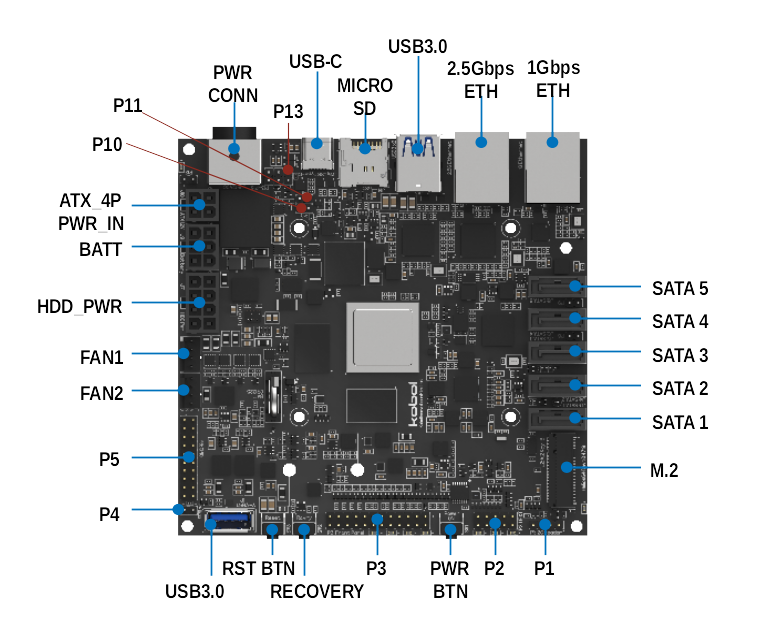
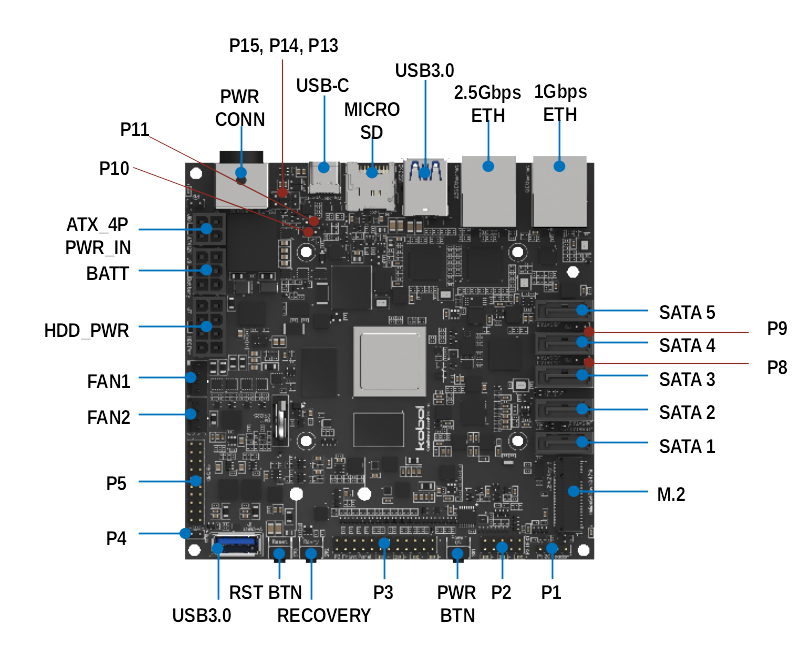
update hardware and led pages

Changed region(s): [[0.0303, 0.0616, 0.9394, 0.9854], [0.9697, 0.5543, 1.0, 0.5851], [0.9697, 0.4927, 1.0, 0.5235]]

diff --git a/docs/helios64/led.md b/docs/helios64/led.md
@@ -2,147 +2,18 @@
 
 ## On-Board LEDs
 
+The onboard LEDs location are shown in above figure 
 
-### Pinout Table
+## LED indicators
 
-![J18 Pinout](/helios4/img/led/gpio_pinout_j18.png)
+LED Name|Color|Description
+---|---|---
+LED1|green|SYS power
+LED2|green|Peripheral power
+LED3|green|HDD power
+LED4|blue|System ON
+LED5|bule|HDD activity
+LED6|green|System Status
+LED7|red|System Error
+LED8|orange|Battery Charge
 
-| Pin | LED number | Remarks |
-|-----|------------|---------|
-|  1  |  -   |  3.3V supply  |
-|  2  |  -   |  Not connected |
-|  3  | LED1 | Active-low |
-|  4  | LED2 | Active-low |
-|  5  | LED3 | Active-low |
-|  6  | LED4 | Active-low |
-|  7  | LED5 | Active-low |
-|  8  | LED6 | Active-low |
-|  9  | LED7 | Active-low |
-| 10  |  -   | GND |
-
-!!! info
-    LED1 - LED7 is preconfigured for certain indicator under Linux, see [LED under Linux](#led-under-linux) section.
-
-### Wiring Diagram
-
-Since the signals to control the LEDs are active low, connect the pin to LED's cathode.
-Below a wiring diagram example.
-
-![Wiring Example](/helios4/img/led/led_expansion_wiring_diagram.png)
-
-
-## LED under Linux
-
-| LED  | Name                 | Default Trigger | Remarks |
-|------|----------------------|-----------------|---------|
-| LED1 | helios4:green:status | heartbeat | Blinking periodically |
-| LED2 | helios4:red:fault    | none      | See [Configuring Fault LED](#configuring-fault-led) |
-| LED3 | helios4:green:ata1   | ata1      | Blinking on SATA1 activity |
-| LED4 | helios4:green:ata2   | ata2      | Blinking on SATA2 activity |
-| LED5 | helios4:green:ata3   | ata3      | Blinking on SATA3 activity |
-| LED6 | helios4:green:ata4   | ata4      | Blinking on SATA4 activity |
-| LED7 | helios4:green:usb    | usb-host  | Blinking on USB activity, any port |
-
-!!! note
-    **ata** trigger requires additional patch to mainline kernel. The patch can be found [here](/helios4/files/led/libata_leds_trigger_mvebu.patch). **Armbian** builds are already patched, so no action is required.
-
-The LEDs can be accessed under LEDs class in *sysfs*.
-
-```
-root@helios4:~/# ls -l /sys/class/leds/
-
-lrwxrwxrwx 1 root root 0 Dec  4 06:57 helios4:green:ata1 -> ../../devices/platform/io-leds/leds/helios4:green:ata1
-lrwxrwxrwx 1 root root 0 Dec  4 06:57 helios4:green:ata2 -> ../../devices/platform/io-leds/leds/helios4:green:ata2
-lrwxrwxrwx 1 root root 0 Dec  4 06:57 helios4:green:ata3 -> ../../devices/platform/io-leds/leds/helios4:green:ata3
-lrwxrwxrwx 1 root root 0 Dec  4 06:57 helios4:green:ata4 -> ../../devices/platform/io-leds/leds/helios4:green:ata4
-lrwxrwxrwx 1 root root 0 Dec  4 06:57 helios4:green:status -> ../../devices/platform/system-leds/leds/helios4:green:status
-lrwxrwxrwx 1 root root 0 Dec  4 06:57 helios4:green:usb -> ../../devices/platform/io-leds/leds/helios4:green:usb
-lrwxrwxrwx 1 root root 0 Dec  4 06:57 helios4:red:fault -> ../../devices/platform/system-leds/leds/helios4:red:fault
-
-```
-
-### LEDs Trigger
-
-- none
-
-No automatic trigger. Manually control the LED by manipulating "brightness".
-More info see [Configuring LED trigger](#configuring-led-trigger).
-
-- heartbeat
-
-LED "double" flashes at a load average based rate. The interval might change during heavy load.
-If the LED no longer blinks, it means the system is locked-up or hung and has to be reset.
-
-- ata*N*
-
-LED blinks on any read/write activity at specific SATA port.
-
-- usb-host
-
-LED blinks on USB activity at any port.
-
-- panic
-
-This trigger allows LEDs to be configured to blink on a kernel panic.
-
-- timer
-
-This allows LEDs to be controlled by a programmable timer via *sysfs*. delay_on to set how long
-the LED turned on and delay_off to set how long the LED turned off.
-
-
-### Configuring LED trigger
-
-To configure, simply set the trigger type. For example to set Status LED triggered by timer
-
-```
-echo timer | sudo tee -a  /sys/class/leds/helios4\:green\:status/trigger
-```
-
-Some of the triggers may expose additional parameters that can be configured further.
-
-On **none** trigger, to turn ON the LED set the brightness bigger than 0.
-
-```
-echo 1 | sudo tee -a  /sys/class/leds/helios4\:green\:status/brightness
-```
-
-and to turn OFF the LED set the brightness to 0.
-
-```
-echo 0 | sudo tee -a  /sys/class/leds/helios4\:green\:status/brightness
-```
-
-On **timer** trigger, it will exposed *delay_on* and *delay_off* with default value of 0.5 seconds for both.
-To change the delay, set the respective parameter (value in milliseconds)
-
-```
-echo 1000 | sudo tee -a  /sys/class/leds/helios4\:green\:status/delay_on
-echo 200 | sudo tee -a  /sys/class/leds/helios4\:green\:status/delay_off
-```
-
-!!! note
-    The changes is not retained across reboot. Use startup script or udev rules to make it permanent.
-
-### Configuring Fault LED
-
-While other LEDs are preconfigured, the fault LED remains unconfigured (trigger:**none**).
-
-#### 1. As Kernel Panic Indicator
-
-To configure the LED as Kernel panic indicator, set the trigger to **panic**. However this functionality might be redundant with Status LED, since if a kernel panic occurs and/or system hangs, the Status LED will no longer blink.
-
-To trigger kernel panic to test the LED, run
-```
-echo c > /proc/sysrq-trigger
-```
-
-!!! warning
-    Triggering kernel panic can lead to data loss. Use with caution!
-
-#### 2. As RAID Fault Indicator
-
-To configure the LED as RAID fault indicator, please refer to [MDADM: Configure Fault LED](/helios4/mdadm/#configure-fault-led)
-
-!!! note
-    On Armbian builds, this is the default setting for fault LED.

diff --git a/docs/helios64/hardware.md b/docs/helios64/hardware.md
@@ -21,6 +21,8 @@ P9|eFuse Dis. Jumper|Not Populated|**TBD** eFuse Power Supply
 P10|eMMC Dis. Jumper|2x1 Pin Male Header|Disable eMMC boot
 P11|SPI Flash Dis. Jumper|2x1 Pin Male Header|Disable SPI Flash
 P13|HS Select Jumper|2x1 Pin Male Header|USB-C HS Select (Close = Type C HS, Open = Console)
+P14|ATX Priority Jumper|2x1 Pin Male Header|ATX Supply Priority
+P15|ACDC Priority Jumper|2x1 Pin Male Header|ACDC(AC Adapter) Supply Priority
 J1|USB3 Host|USB 3.0 Host| USB 3.0 Port Header 
 J3|SATA|SATA 3.0|Port 0 (SATA1)
 J4|SATA|SATA 3.0|Port 1 (SATA2)
@@ -113,28 +115,28 @@ Helios64 board exposes the SoC I2C Bus 1, on header **P1**. Below is the header 
 
 **Board only**
 
-* Idle  : 3.6 Watts
-* Active : 5.6 Watts
+* Idle  : X.X Watts
+* Active : X.X Watts
 
-**Full Kit (with 4x HDDs)**
+**Full Kit (with 5x HDDs)**
 
 | State               | AC calculated<br>power consumption | DC measured<br>power consumption | Remarks             |
 |---------------------|----------------------|----------------------|---------------------|
-|  Idle               | 19.3 W               | 16.8 W               |                     |
-|  HDD Read Access    | 27.4 W               | 22.8 W               |                     |
-|  HDD Write Access   | 30.3 W               | 25.2 W               |                     |
-|  Standby            | 8.0 W                | 6.7 W                | HDD in Standby mode |
-|  Suspend-to-Ram     | 7.2 W                | 6.0 W                | HDD in Standby mode |
+|  Idle               | X.X W               | X.X W               |                     |
+|  HDD Read Access    | X.X W               | X.X W               |                     |
+|  HDD Write Access   | X.X W               | X.X W               |                     |
+|  Standby            | X.X W               | X.X W                | HDD in Standby mode |
+|  Suspend-to-Ram     | X.X W               | X.X W                | HDD in Standby mode |
 
 !!! note
-    Measures were done using a Current Clamp Meter on the Helios4 12V DC input. AC Power consumption is calculated based on a AC/DC conversion efficiency of 85%.
+    Measures were done using a Current Clamp Meter on the Helios64 12V DC input. AC Power consumption is calculated based on a AC/DC conversion efficiency of 85%.
 
     * Meter tool : Extech 380942 - 30A True RMS AC/DC Mini Clamp
-    * AC/DC Adapter : yczx1268 (efficiency : 85%)
+    * AC/DC Adapter :  (efficiency : YY%)
     * AC Input Voltage: 220V
-    * HDD: 4x WD Red 2TB (WD20EFRX) configured as RAID10
+    * HDD: 5x YYY XX TB (HDDCODEXX) configured as RAIDXX
     * Network : Connected at 1000Mb/s
-    * OS: ARMBIAN 5.73 stable Debian GNU/Linux 9 (stretch) 4.14.98-mvebu   
+    * OS: ARMBIAN Z.Z stable Debian GNU/Linux 10 (buster) 5.4.xx-yyy   
 
 
 ## HDD Recommendation List
@@ -155,24 +157,11 @@ We recommend HDD which are designed for NAS (Network Attached Storage). Those NA
 
 - ST1000VN002
 - ST2000VN004
-- ST3000VN007
-- ST4000VN008
-- ST6000VN0041
-- ST8000VN0022
-- ST10000VN0004
-
-**HGST** : Deskstar NAS (4, 6 and 8TB)
-
-- 0S04005
-- 0S04007
-- 0S04012
-
-!!! note
     We recommend to order from different shop to avoid having all the drives from the same factory batch. For instance, you should order 2x HDDs from one shop, then the 2 others from another shop.
 
 ## HDD / SSD Compability List
 
-Please refer to [Synology DS416j Compatibility List](https://www.synology.com/en-global/compatibility?search_by=products&model=DS416j&category=hdds&p=1) that covers a large number of tested drives. The DS416j used the same SoC family than Helios4.
+**To be updated.**
 
 
 ## References
